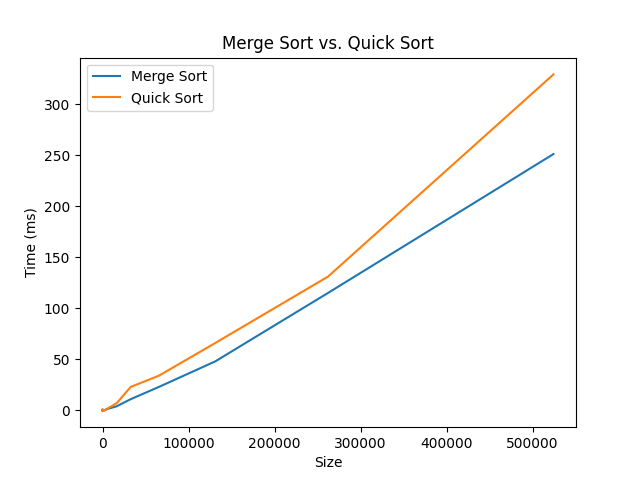
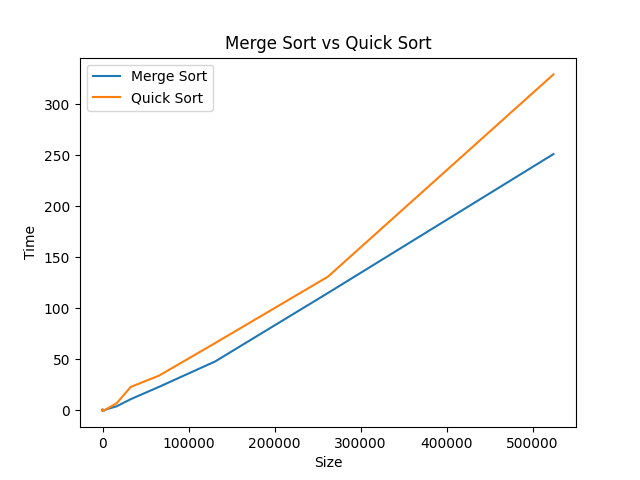
some changes

Changed region(s): [[0.3438, 0.0625, 0.6875, 0.125], [0.0312, 0.4375, 0.0625, 0.5625]]

diff --git a/plot-csv.py b/plot-csv.py
@@ -1,14 +1,32 @@
 import matplotlib.pyplot as plt
 import pandas as pd
+import sys
 
-df = pd.read_csv('MergeQuickSort.csv')
-merge_sort = df.iloc[:, 0]
-quick_sort = df.iloc[:, 1]
-sizes = df.iloc[:, 2]
-plt.plot(sizes, merge_sort, label='Merge Sort')
-plt.plot(sizes, quick_sort, label='Quick Sort')
-plt.xlabel('Size')
-plt.ylabel('Time (ms)')
-plt.title('Merge Sort vs. Quick Sort')
-plt.legend()
-plt.savefig('MergeQuickSort.png')
+"""
+Read a csv file and return a tuple of three dataframes
+"""
+def read_data(filename: str) -> tuple[pd.DataFrame, pd.DataFrame, pd.DataFrame]:
+  df = pd.read_csv(filename)
+  merge_sort = df.iloc[:, 0]
+  quick_sort = df.iloc[:, 1]
+  sizes = df.iloc[:, 2]
+  return merge_sort, quick_sort, sizes
+
+"""
+Plot the data
+"""
+def plot(
+    merge_sort: pd.DataFrame, 
+    quick_sort: pd.DataFrame, 
+    sizes: pd.DataFrame) -> None:
+  plt.plot(sizes, merge_sort, label='Merge Sort')
+  plt.plot(sizes, quick_sort, label='Quick Sort')
+  plt.xlabel('Size')
+  plt.ylabel('Time')
+  plt.title('Merge Sort vs Quick Sort')
+  plt.legend()
+
+if __name__ == '__main__':
+  merge_sort, quick_sort, sizes = read_data(sys.argv[1])
+  plot(merge_sort, quick_sort, sizes)
+  plt.savefig(sys.argv[1].split('.')[1].split('\\')[-1] + '.png')
